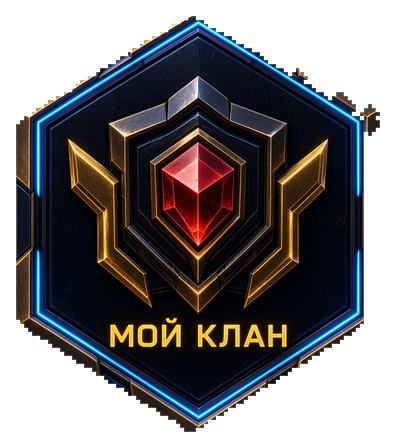
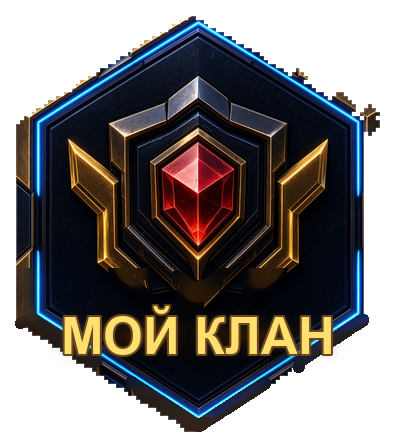
Unify hub tile label fonts and pulse the marketplace tile.
Gold bold captions match Clan Wars across all hexes; marketplace gently glows so players notice it is live.

Changed region(s): [[0.4242, 0.5938, 0.9394, 0.8438], [0.0303, 0.5938, 0.4545, 0.8125], [0.303, 0.8438, 0.697, 0.9688]]

diff --git a/src/app/globals.css b/src/app/globals.css
@@ -23452,6 +23452,41 @@ body:has(.home-page.is-hub),
     brightness(1.06);
 }
 
+/* Торговая площадка: лёгкое мигание — сигнал, что раздел живой */
+.home-hub-tile--marketplace .home-hub-tile-art {
+  animation: home-hub-market-pulse 2.4s ease-in-out infinite;
+}
+.home-hub-tile--marketplace:hover .home-hub-tile-art,
+.home-hub-tile--marketplace:focus-visible .home-hub-tile-art {
+  animation: none;
+  filter:
+    drop-shadow(0 0 12px rgba(56, 189, 248, 0.65))
+    drop-shadow(0 0 18px rgba(251, 191, 36, 0.5))
+    brightness(1.1);
+}
+@keyframes home-hub-market-pulse {
+  0%,
+  100% {
+    filter:
+      drop-shadow(0 0 6px rgba(56, 189, 248, 0.35))
+      drop-shadow(0 0 8px rgba(251, 191, 36, 0.25))
+      brightness(1);
+    opacity: 1;
+  }
+  50% {
+    filter:
+      drop-shadow(0 0 16px rgba(56, 189, 248, 0.75))
+      drop-shadow(0 0 22px rgba(251, 191, 36, 0.65))
+      brightness(1.14);
+    opacity: 0.92;
+  }
+}
+@media (prefers-reduced-motion: reduce) {
+  .home-hub-tile--marketplace .home-hub-tile-art {
+    animation: none;
+  }
+}
+
 .home-hub-tile--my-faction {
   cursor: pointer;
 }

diff --git a/src/components/HomeHubTiles.tsx b/src/components/HomeHubTiles.tsx
@@ -255,7 +255,7 @@ export function HomeHubTiles({ tiles, initialLayout, canEdit }: Props) {
               <span
                 className="home-hub-tile-art"
                 aria-hidden="true"
-                style={{ backgroundImage: `url(${tile.image}?v=drag1)` }}
+                style={{ backgroundImage: `url(${tile.image}?v=label2)` }}
               />
             </>
           );

diff --git a/scripts/restyle_hub_tile_labels.py b/scripts/restyle_hub_tile_labels.py
@@ -1,0 +1,210 @@
+"""
+Стирает вшитый текст на плитках home-hub и рисует подписи
+в стиле «КЛАНОВЫЕ ВОЙНЫ»: жирный caps + золотое свечение.
+Идемпотентно: всегда читает оригинал из _label-bak/.
+"""
+from __future__ import annotations
+
+from pathlib import Path
+
+import numpy as np
+from PIL import Image, ImageDraw, ImageFilter, ImageFont
+
+ROOT = Path(__file__).resolve().parents[1]
+HUB = ROOT / "public" / "home-hub"
+BACKUP = HUB / "_label-bak"
+
+LABELS: dict[str, str] = {
+    "tournaments.png": "ТУРНИРЫ",
+    "public-rating.png": "РЕЙТИНГ\nПАБЛИКА",
+    "clan-wars.png": "КЛАНОВЫЕ\nВОЙНЫ",
+    "training.png": "ТРЕНИРОВКА",
+    "battle-pass.png": "BATTLE PASS",
+    "marketplace.png": "ТОРГОВАЯ\nПЛОЩАДКА",
+    "my-clan.png": "МОЙ КЛАН",
+    "my-team.png": "МОЯ\nКОМАНДА",
+    "my-faction.png": "МОЯ\nФРАКЦИЯ",
+}
+
+FONT_CANDIDATES = [
+    Path(r"C:\Windows\Fonts\arialbd.ttf"),
+    Path(r"C:\Windows\Fonts\ARIALNB.TTF"),
+    Path(r"C:\Windows\Fonts\bahnschrift.ttf"),
+    Path(r"C:\Windows\Fonts\impact.ttf"),
+]
+
+
+def pick_font(size: int) -> ImageFont.FreeTypeFont | ImageFont.ImageFont:
+    for p in FONT_CANDIDATES:
+        if p.exists():
+            try:
+                return ImageFont.truetype(str(p), size=size)
+            except OSError:
+                continue
+    return ImageFont.load_default()
+
+
+def is_text_pixel(r: np.ndarray, g: np.ndarray, b: np.ndarray, a: np.ndarray) -> np.ndarray:
+    return (
+        (a > 140)
+        & (r > 145)
+        & (g > 100)
+        & (b < 155)
+        & ((r.astype(np.int16) + g.astype(np.int16)) > (b.astype(np.int16) * 2))
+        & (r.astype(np.int16) > b.astype(np.int16) + 30)
+    )
+
+
+def erase_text(im: Image.Image) -> Image.Image:
+    """Точечно затирает золотой текст локальным тёмным фоном (без серой полосы)."""
+    arr = np.array(im.convert("RGBA"), dtype=np.uint8)
+    h, w = arr.shape[:2]
+    y0 = int(h * 0.60)
+    band = arr[y0:].copy()
+    r = band[:, :, 0].astype(np.int16)
+    g = band[:, :, 1].astype(np.int16)
+    b = band[:, :, 2].astype(np.int16)
+    a = band[:, :, 3]
+    mask = is_text_pixel(
+        band[:, :, 0], band[:, :, 1], band[:, :, 2], band[:, :, 3]
+    )
+
+    mimg = Image.fromarray((mask.astype(np.uint8) * 255), mode="L")
+    mimg = mimg.filter(ImageFilter.MaxFilter(7))
+    mimg = mimg.filter(ImageFilter.GaussianBlur(1.4))
+    mask2 = np.array(mimg) > 28
+
+    # Локальный fill: медиана тёмных пикселей в окне вокруг каждой строки.
+    out = band.copy()
+    bh, bw = band.shape[:2]
+    dark = (a > 160) & (r < 95) & (g < 95) & (b < 120) & (~mask)
+    # глобальный fallback
+    if dark.any():
+        fallback = np.array(
+            [
+                int(np.median(band[:, :, 0][dark])),
+                int(np.median(band[:, :, 1][dark])),
+                int(np.median(band[:, :, 2][dark])),
+                255,
+            ],
+            dtype=np.uint8,
+        )
+    else:
+        fallback = np.array([16, 18, 26, 255], dtype=np.uint8)
+
+    ys, xs = np.where(mask2)
+    for y, x in zip(ys.tolist(), xs.tolist()):
+        y1, y2 = max(0, y - 10), min(bh, y + 11)
+        x1, x2 = max(0, x - 18), min(bw, x + 19)
+        win = band[y1:y2, x1:x2]
+        wr, wg, wb, wa = win[:, :, 0], win[:, :, 1], win[:, :, 2], win[:, :, 3]
+        local_dark = (
+            (wa > 160)
+            & (wr < 100)
+            & (wg < 100)
+            & (wb < 125)
+            & (~is_text_pixel(wr, wg, wb, wa))
+        )
+        if local_dark.any():
+            out[y, x] = [
+                int(np.median(wr[local_dark])),
+                int(np.median(wg[local_dark])),
+                int(np.median(wb[local_dark])),
+                255,
+            ]
+        else:
+            out[y, x] = fallback
+
+    arr[y0:] = out
+    return Image.fromarray(arr, mode="RGBA")
+
+
+def fit_font(
+    draw: ImageDraw.ImageDraw, lines: list[str], max_w: int, max_h: int
+) -> ImageFont.ImageFont:
+    size = 52
+    while size >= 18:
+        font = pick_font(size)
+        widths = []
+        heights = []
+        for line in lines:
+            box = draw.textbbox((0, 0), line, font=font)
+            widths.append(box[2] - box[0])
+            heights.append(box[3] - box[1])
+        total_h = sum(heights) + max(0, len(lines) - 1) * int(size * 0.12)
+        if max(widths) <= max_w and total_h <= max_h:
+            return font
+        size -= 1
+    return pick_font(18)
+
+
+def draw_gold_label(im: Image.Image, text: str) -> Image.Image:
+    w, h = im.size
+    lines = [ln.strip() for ln in text.split("\n") if ln.strip()]
+    probe = ImageDraw.Draw(im)
+    max_w = int(w * 0.70)
+    max_h = int(h * 0.18)
+    font = fit_font(probe, lines, max_w, max_h)
+
+    metrics = []
+    for line in lines:
+        box = probe.textbbox((0, 0), line, font=font)
+        metrics.append((line, box[2] - box[0], box[3] - box[1], -box[1]))
+    gap = max(2, int(getattr(font, "size", 28) * 0.1))
+    block_h = sum(m[2] for m in metrics) + gap * (len(metrics) - 1)
+    top = int(h * 0.735) - block_h // 2
+    top = max(int(h * 0.64), min(top, int(h * 0.80) - block_h))
+
+    fill_color = (255, 224, 110, 255)
+    stroke_color = (90, 50, 8, 230)
+
+    y = top
+    for line, tw, th, ascent in metrics:
+        x = (w - tw) // 2
+        for rad, alpha in ((9, 28), (5, 50), (2, 85)):
+            glow = Image.new("RGBA", im.size, (0, 0, 0, 0))
+            gd = ImageDraw.Draw(glow)
+            gd.text(
+                (x, y + ascent),
+                line,
+                font=font,
+                fill=(255, 200, 70, alpha),
+                anchor="lt",
+            )
+            glow = glow.filter(ImageFilter.GaussianBlur(rad))
+            im = Image.alpha_composite(im, glow)
+        draw = ImageDraw.Draw(im)
+        draw.text(
+            (x, y + ascent),
+            line,
+            font=font,
+            fill=fill_color,
+            stroke_width=max(1, getattr(font, "size", 28) // 20),
+            stroke_fill=stroke_color,
+            anchor="lt",
+        )
+        y += th + gap
+    return im
+
+
+def main() -> None:
+    BACKUP.mkdir(parents=True, exist_ok=True)
+    for name, label in LABELS.items():
+        src = HUB / name
+        if not src.exists():
+            print("skip missing", name)
+            continue
+        bak = BACKUP / name
+        # Если бэкап уже испорчен прошлым прогоном — не перезаписываем.
+        # Первый запуск: копируем текущий файл, если бэкапа нет.
+        if not bak.exists():
+            bak.write_bytes(src.read_bytes())
+        im = Image.open(bak).convert("RGBA")
+        im = erase_text(im)
+        im = draw_gold_label(im, label)
+        im.save(src, optimize=True)
+        print("ok", name, "→", label.replace("\n", " / "))
+
+
+if __name__ == "__main__":
+    main()

diff --git a/docs/CHANGELOG.md b/docs/CHANGELOG.md
@@ -1,3 +1,9 @@
+## v. 1.2.268 — 15.11.2026 · Хаб: единый шрифт плиток + мигание площадки
+
+На всех гексах хаба подписи в одном жирном золотом стиле (как «Клановые войны»). **Торговая площадка** слегка мигает свечением, чтобы было видно: раздел открыт.
+
+---
+
 ## v. 1.2.267 — 15.11.2026 · Админка: лог магазина
 
 В админ-панели вкладка **Лог магазина**: все покупки/продажи (нашивки, фоны, шрифты) — время МСК, ник, предмет, цена BBC. Фильтры по сделке и каталогу.
